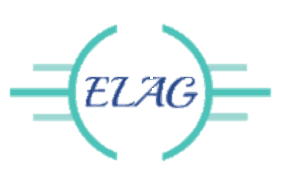
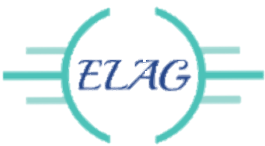
FINAL HOME PAGE

Changed region(s): [[0.0, 0.0274, 1.0, 0.9863]]

diff --git a/sjindex.html b/sjindex.html
@@ -21,13 +21,13 @@
     <div class="container">
       <div class='jumbotron'>
         <div class="row">
-          <div class="col-sm-3">
-            <img class="img-responsive" src='images/ELAG3.png' alt="Eat Like A Girl Logo">
+          <div class="col-sm-2">
+            <img class="img-responsive" src='images/ELAG3.png' alt="Eat Like A Girl Logo" width=150px>
           </div>
           <div class="col-sm-6">
             <h1>Eat Like A Girl!</h1>
           </div>
-          <div class="col-sm-3">
+          <div class="col-sm-4">
             <form role='form'>
               <label for="email"></label>
               <input type="text" name="email" placeholder="Search">
@@ -40,16 +40,16 @@
       <nav class="navbar navbar-expand-sm bg-light navbar-light">
         <ul class="navbar-nav">
           <li class="nav-item active">
-            <a class="nav-link" href="#">Home</a>
+            <a class="nav-link" href="sjindex.html">Home</a>
           </li>
           <li class="nav-item">
-            <a class="nav-link" href="#">Travel</a>
+            <a class="nav-link" href="TravelPage.html">Travel</a>
           </li>
           <li class="nav-item">
             <a class="nav-link" href="#">Recipes</a>
           </li>
           <li class="nav-item">
-            <a class="nav-link" href="#">Gallery</a>
+            <a class="nav-link" href="Gallery-Page.html">Gallery</a>
           </li>
 
         </ul>
@@ -61,7 +61,25 @@
           <div class="col-sm-6">
             <h2><strong>Welcome!</strong></h2>
             <p>Hello and welcome to <strong><em>Eat Like A Girl!</em></strong> This is food blog where you can find recipes from around the world.
-              Coming from different cultures ourselves, we bring diversity and distinctive ideas straight to your tastebuds. </p>
+              Coming from different cultures ourselves, we bring diversity and distinctive ideas straight to your tastebuds.
+              Harry Potter and the Sorcerer's Stone. Mr. and Mrs. Dursley, of number four, Privet Drive, were proud to say that they were perfectly normal, thank you very much. They were the last people you'd expect to be involved in anything strange or mysterious, because they just didn't hold with such nonsense.
+              Mr. Dursley was the director of a firm called Grunnings, which made
+              drills. He was a big, beefy man with hardly any neck, although he did
+              have a very large mustache. Mrs. Dursley was thin and blonde and had
+              nearly twice the usual amount of neck, which came in very useful as she
+              spent so much of her time craning over garden fences, spying on the
+              neighbors. The Dursleys had a small son called Dudley and in their
+              opinion there was no finer boy anywhere.</p>
+              <p>------------------</p>
+              <p>The Dursleys had everything they wanted, but they also had a secret, and
+              their greatest fear was that somebody would discover it. They didn't
+              think they could bear it if anyone found out about the Potters. Mrs.
+              Potter was Mrs. Dursley's sister, but they hadn't met for several years;
+              in fact, Mrs. Dursley pretended she didn't have a sister, because her
+              sister and her good-for-nothing husband were as unDursleyish as it was
+              possible to be. The Dursleys shuddered to think what the neighbors would
+              say if the Potters arrived in the street. The Dursleys knew that the
+              Potters had a small son, too, but they had never even seen him.</p>
           </div>
           <div class="col-sm-6">
             <div id="demo" class="carousel slide" data-ride="carousel">
@@ -108,8 +126,14 @@
           </tr>
           <tr>
             <td>Email us at: elagblog@elag.com </td>
-            <td><###############></td>
-            <td><###############></td>
+            <td>Click here!</td>
+            <td>
+              <div id='social-buttons'>
+                <button class='btn btn-md btn-twitter'><a href="https://twitter.com/?lang=en-gb">Twitter</button>
+                <button class='btn btn-md btn-facebook'><a href="https://en-gb.facebook.com/">Facebook</button>
+                <button class='btn btn-md btn-pinterest'><a href="https://www.pinterest.co.uk/">Pinterest</button>
+              </div>
+            </td>
           </tr>
 
 

diff --git a/css2/sjindexcss.css b/css2/sjindexcss.css
@@ -24,7 +24,8 @@
 }
 
 h1{
-  font-family: Florence, cursive;
+  font-family: Florence;
+  font-size: 50px
 }
 
 .navbar{
@@ -38,4 +39,12 @@ h1{
 
 table{
   width: 100%;
+}
+
+p,h2{
+  margin-left: 1rem;
+}
+
+button{
+  background-color: #89CFFF
 }
